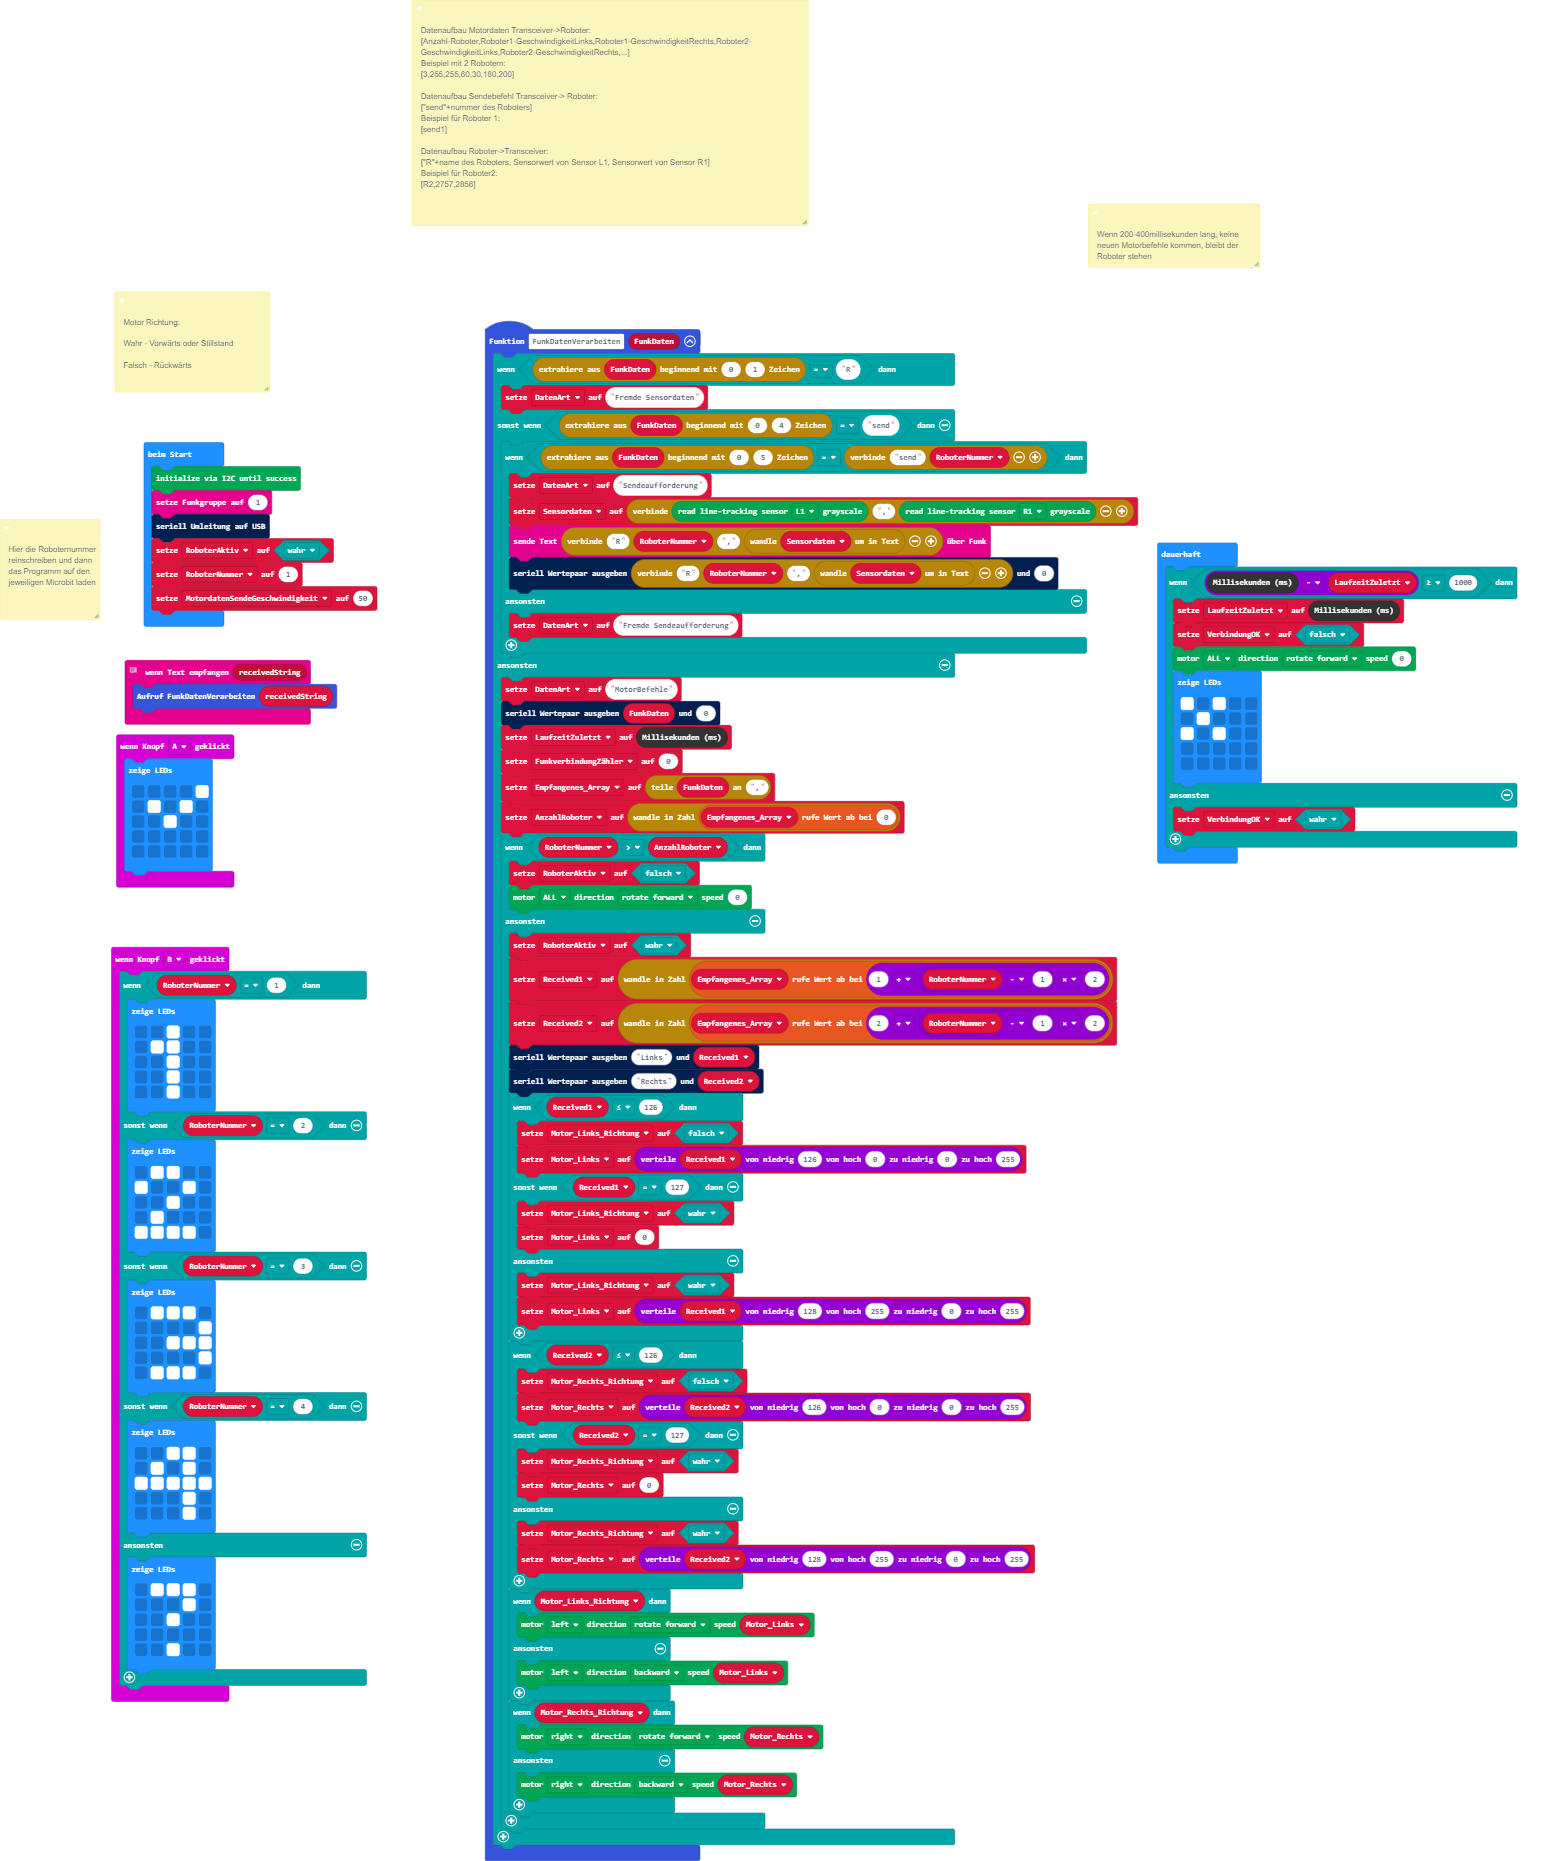
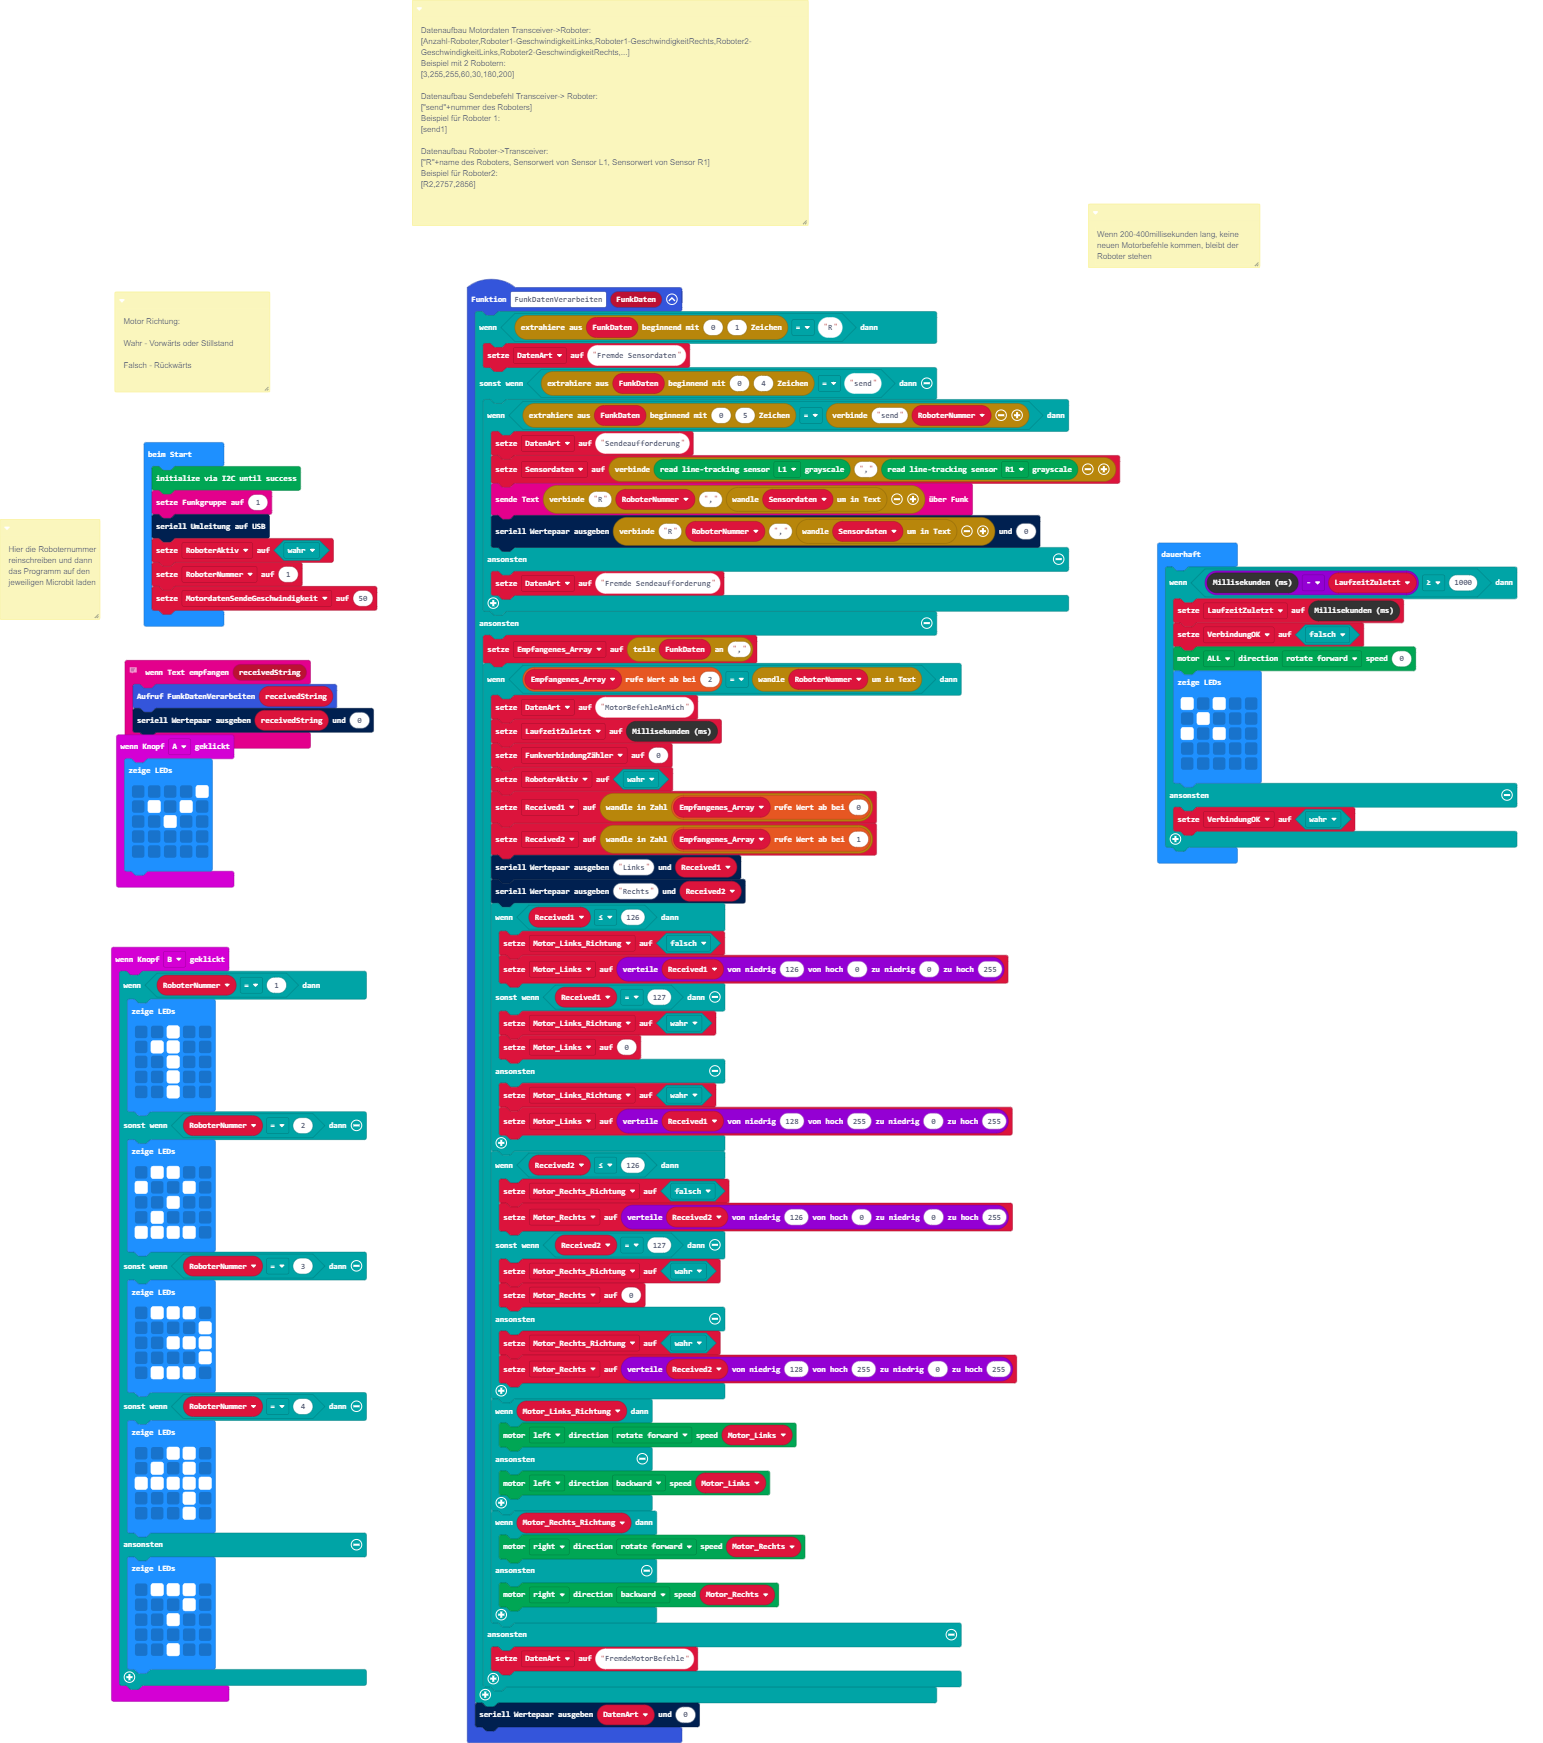
Aktualisiere pxt.json, main.blocks, main.ts

diff --git a/main.ts b/main.ts
@@ -24,9 +24,6 @@
  * [R2,2757,2856]
  */
 /**
- * Wenn 200-400millisekunden lang, keine neuen Motorbefehle kommen, bleibt der Roboter stehen
- */
-/**
  * Motor Richtung:
  * 
  * Wahr - Vorwärts oder Stillstand
@@ -35,6 +32,9 @@
  */
 /**
  * Hier die Roboternummer reinschreiben und dann das Programm auf den jeweiligen Microbit laden
+ */
+/**
+ * Wenn 200-400millisekunden lang, keine neuen Motorbefehle kommen, bleibt der Roboter stehen
  */
 function FunkDatenVerarbeiten (FunkDaten: string) {
     if (FunkDaten.substr(0, 1) == "R") {
@@ -49,19 +49,14 @@ function FunkDatenVerarbeiten (FunkDaten: string) {
             DatenArt = "Fremde Sendeaufforderung"
         }
     } else {
-        DatenArt = "MotorBefehle"
-        serial.writeValue(FunkDaten, 0)
-        LaufzeitZuletzt = control.millis()
-        FunkverbindungZähler = 0
         Empfangenes_Array = FunkDaten.split(",")
-        AnzahlRoboter = parseFloat(Empfangenes_Array[0])
-        if (RoboterNummer > AnzahlRoboter) {
-            RoboterAktiv = false
-            DFRobotMaqueenPlus.mototRun(Motors.ALL, Dir.CW, 0)
-        } else {
+        if (Empfangenes_Array[2] == convertToText(RoboterNummer)) {
+            DatenArt = "MotorBefehleAnMich"
+            LaufzeitZuletzt = control.millis()
+            FunkverbindungZähler = 0
             RoboterAktiv = true
-            Received1 = parseFloat(Empfangenes_Array[1 + (RoboterNummer - 1) * 2])
-            Received2 = parseFloat(Empfangenes_Array[2 + (RoboterNummer - 1) * 2])
+            Received1 = parseFloat(Empfangenes_Array[0])
+            Received2 = parseFloat(Empfangenes_Array[1])
             serial.writeValue("Links", Received1)
             serial.writeValue("Rechts", Received2)
             if (Received1 <= 126) {
@@ -94,8 +89,11 @@ function FunkDatenVerarbeiten (FunkDaten: string) {
             } else {
                 DFRobotMaqueenPlus.mototRun(Motors.M2, Dir.CCW, Motor_Rechts)
             }
+        } else {
+            DatenArt = "FremdeMotorBefehle"
         }
     }
+    serial.writeValue(DatenArt, 0)
 }
 input.onButtonPressed(Button.A, function () {
     basic.showLeds(`
@@ -109,6 +107,7 @@ input.onButtonPressed(Button.A, function () {
 // Zum testen
 radio.onReceivedString(function (receivedString) {
     FunkDatenVerarbeiten(receivedString)
+    serial.writeValue(receivedString, 0)
 })
 input.onButtonPressed(Button.B, function () {
     if (RoboterNummer == 1) {
@@ -160,10 +159,9 @@ let Motor_Links = 0
 let Motor_Links_Richtung = false
 let Received2 = 0
 let Received1 = 0
-let AnzahlRoboter = 0
-let Empfangenes_Array: string[] = []
 let FunkverbindungZähler = 0
 let LaufzeitZuletzt = 0
+let Empfangenes_Array: string[] = []
 let Sensordaten = ""
 let DatenArt = ""
 let RoboterNummer = 0
